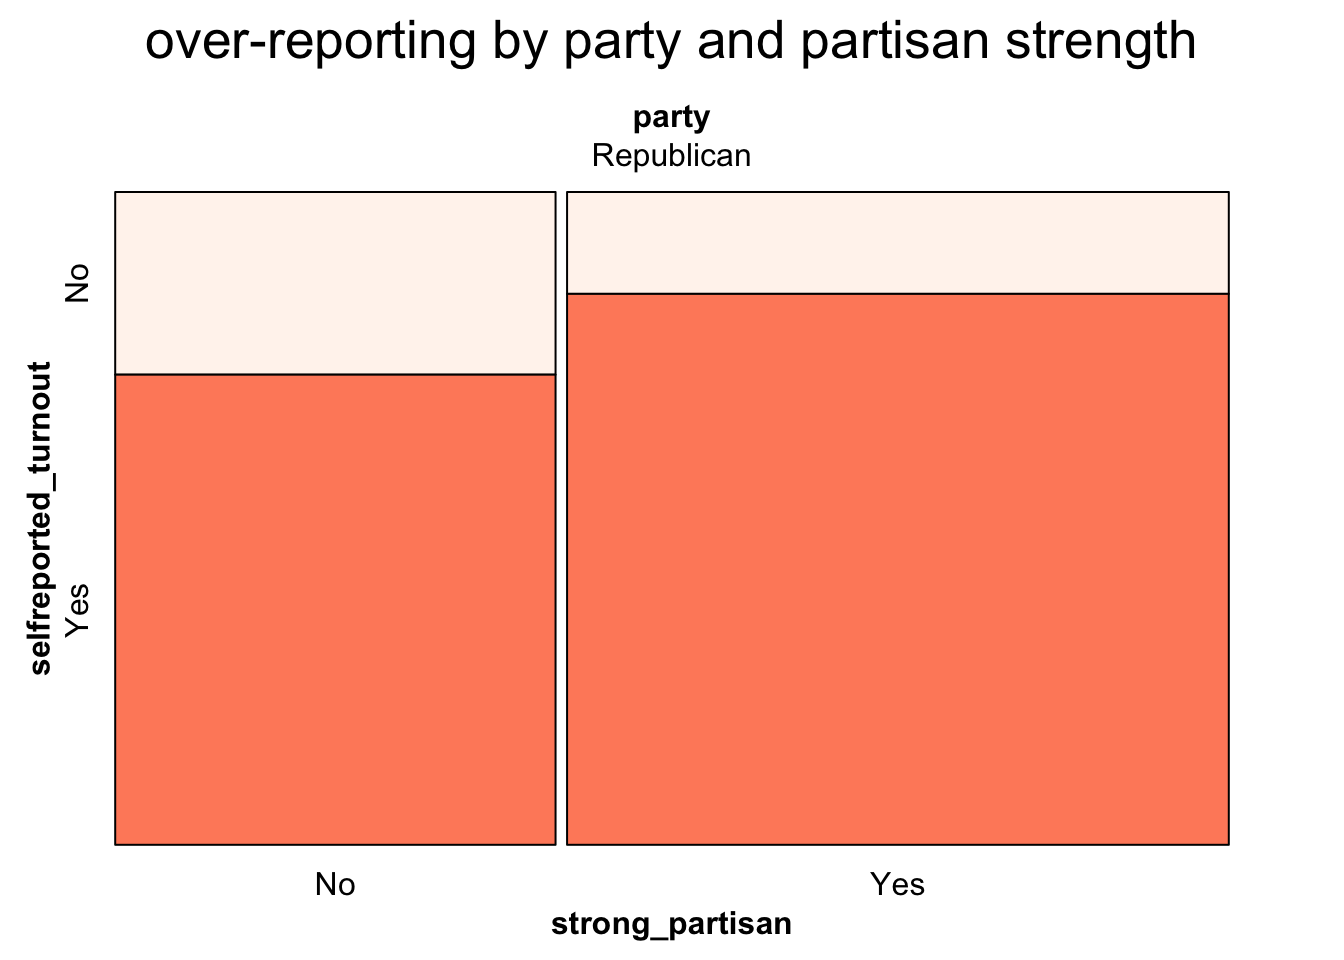
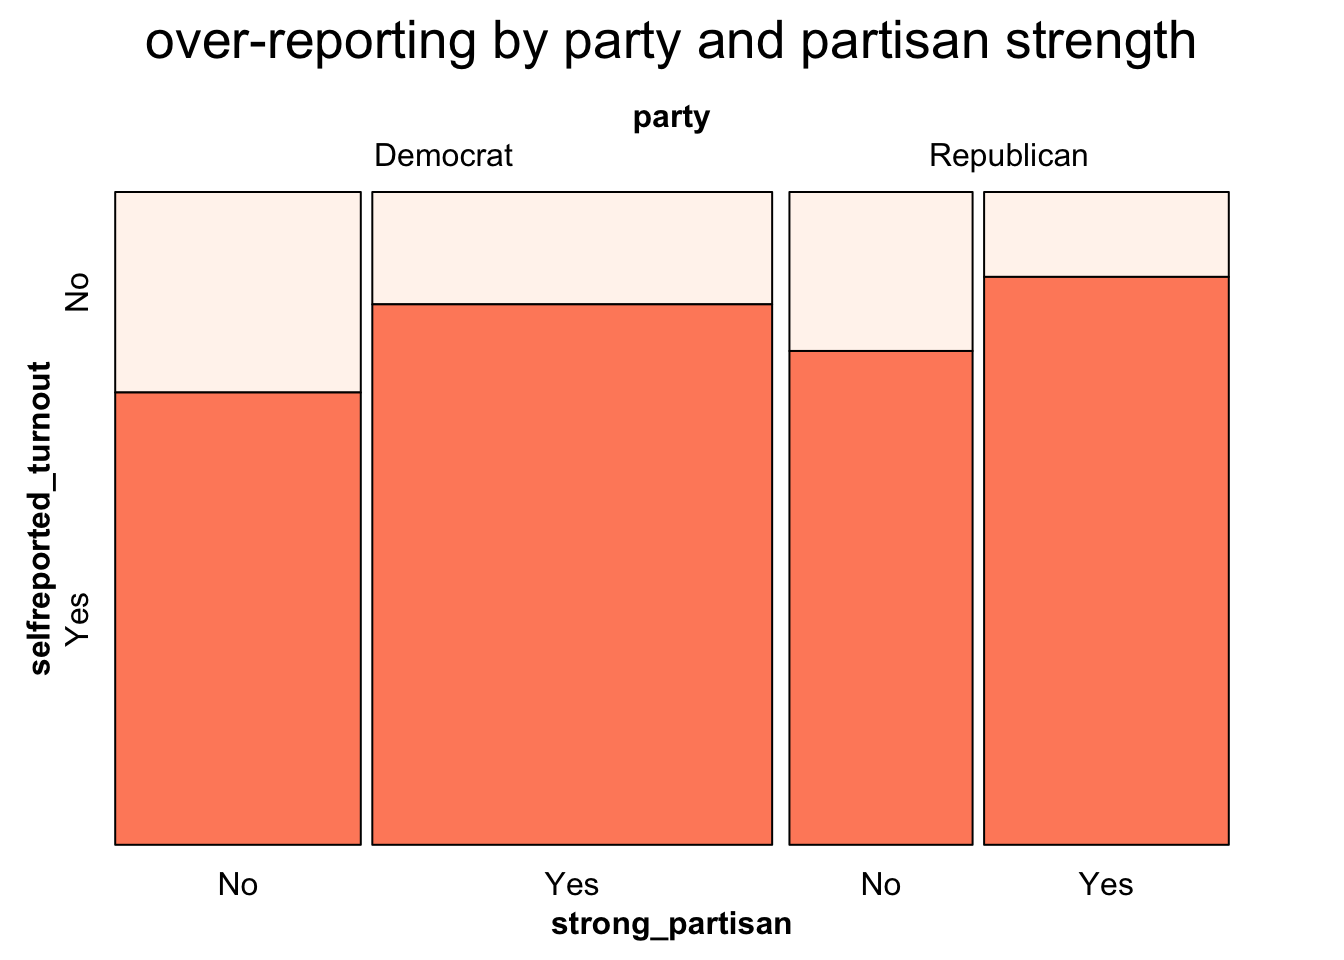
up

diff --git a/docs/results.html b/docs/results.html
@@ -123,8 +123,8 @@
 <p><img src="finalproj_files/figure-html/unnamed-chunk-15-1.png" width="672" /></p>
 <p>The mosaic plot above shows that those with higher level of education are more likely than others to overreport turnout. (To the extent that the likelihood of administrative error in voting record should not differ by gender or voter’s educational level, I assume that the difference is driven by individual propensity to lie, and not by admin error) While it’s possible that the population with higher education also votes at a higher rate, recall that the underlying data is limited to those for whom there is no record of having voted, so we’re looking at the tendency to lie, conditional on not having voted. An explanation for this pattern would be that individuals with higher level of education are (a) aware of the importance of voting as a civic duty, and (b) have peers who would expect them to vote. Hence, conditional on not having voted, the pressure to lie and say that they did would be higher. The mosaic plot indicates that this pattern is found in female as well as male respondents. We can also deduce that at each level of income, males over-report at slightly higher rates than do women, but that the difference across gender categories are smaller than the differences across educational levels.</p>
 <p>** ideally the labels on the bottom should not encroach the actual mosaic plots.</p>
-<p><img src="finalproj_files/figure-html/unnamed-chunk-16-1.png" width="672" />
-Now we look at how overreporting rate differs by gender and party affiliation.
+<p><img src="finalproj_files/figure-html/unnamed-chunk-16-1.png" width="672" /></p>
+<p>Now we look at how overreporting rate differs by gender and party affiliation.
 What is noticeable is the fact that Independents are less likely than both Democrats and Republicans to overreport, and that overrepoting rate is even lower for those who responded that they were “Unsure” about their political affiliation. In other words, the stronger the political affiliation/identity, the more likely an individual is to say that they voted when in fact they did not. There may be a number of reasons for this behavior. Those who have strong interest in politics are likely to recognize the importance of voting, and conditional on not having voted, the guilt of not having done so and the embarrassment of others finding out would weigh in heavier on this population than others for whom it doesn’t matter as much.</p>
 <p><img src="finalproj_files/figure-html/unnamed-chunk-17-1.png" width="672" /></p>
 <p>This plot takes into account the strength of partisanship. It shows that while the overall pattern of overreporting is similar for Democrats and Republicans, Republicans are marginally more likely to overreport regardless of partisanship strength. As may be intuitive, those who claimed to be strong partisans, i.e. Strong Republicans or Strong Democrats, were also more likely to overreport.</p>

diff --git a/docs/conclusion.html b/docs/conclusion.html
@@ -105,7 +105,8 @@
 <div id="conclusion" class="section level1">
 <h1><span class="header-section-number">Chapter 7</span> Conclusion</h1>
 <p>The main limitations of this project–related to the fact that we cannot distinguish between administrative errors and lies–were discussed at the outset. Despite this challenge, it is possible, at least for variables that I examined, to identify a few patterns that predict over-reporting.</p>
-<p>It would be interesting, time permitting, to look at additional political variables, such as margins of the elections, which party won, etc. to see if these electoral outcomes also have an effect on over-reporting. The issue here would be that there electoral outcome would be identical for all those within the administrative unit relevant for the outcome i.e. state, congressional district (CD), so ideally for this analysis we would have additional years of data to allow for state/CD level variation.</p>
+<p>It would be interesting, time permitting, to look at additional political variables, such as margins of the elections, which party won, etc. to see if these electoral outcomes also have an effect on overreporting. The issue here would be that electoral outcome would be identical for all respondents within the administrative units (i.e. state, congressional district (CD)), and given that many states constantly vote for the same party, there may not be sufficient variation in electoral outcomes at state level (although more variation would be seen at CD level) with data from only 3 years.</p>
+<p>The main challenge I encountered writing up the results was figuring out how to communicate the “findings.” In statistics, we often speak in terms of p-values and significance levels, so I found myself keep asking whether the pattern I was seeing was “clear enough” or if the differences in groups were really “noticeable.” As we learned in the course, scales can really make a difference, and while it’s tempting to opt for “findings,” it’s important to avoid presenting patterns where there is none. All of this is just to say that it’s been great learning complementarity of dataviz and statistics!</p>
 
 </div>
             </section>
